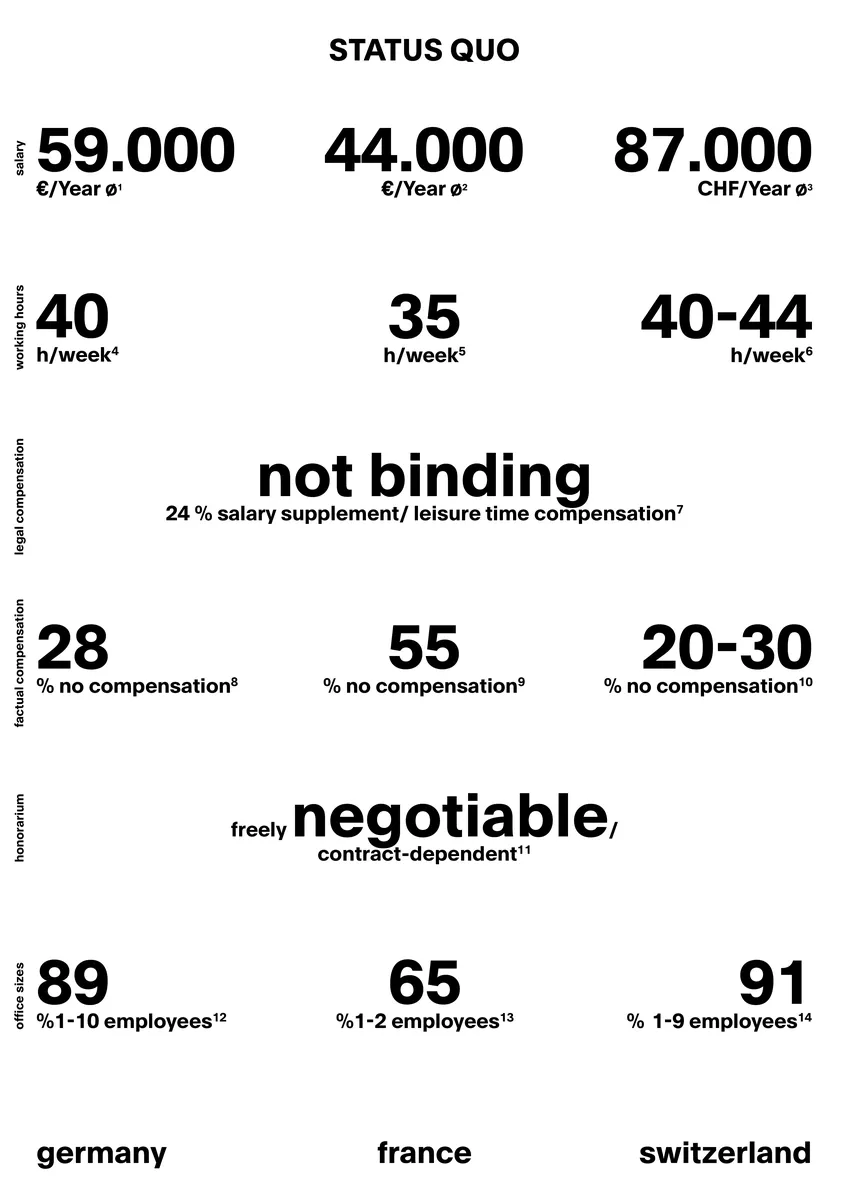
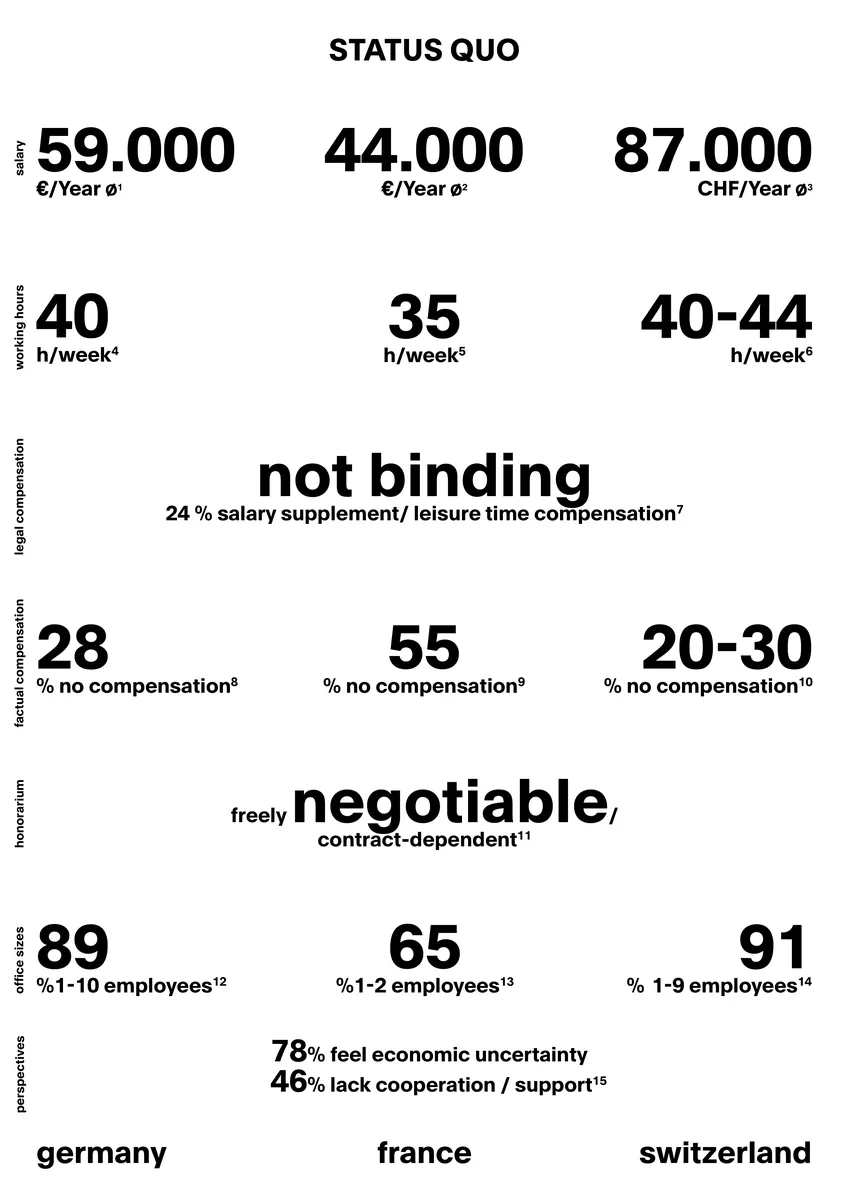
V0.0016

diff --git a/js/projects-data.js b/js/projects-data.js
@@ -710,7 +710,7 @@ window.PROJECTS_DATA = [
         "size":  null,
         "contributor":  "Laura Schieferdecker",
         "credits":  null,
-        "text":  "# 1. Status Quo\n\nArchitecture is a profession with high educational demands, considerable responsibility and a clear social impact. Salaries and working conditions do not always reflect these demands. Salary data show differences between Germany, France and Switzerland, partly reflecting different living costs and labour markets. Across all three countries, concerns about overtime, workload and adequate compensation raise a common question: why does a profession that demands so much commitment struggle to secure consistently fair working conditions?\n\nThe situation differs between countries. France has a standard 35-hour working week and a national collective agreement for architecture firms. Germany has no universal statutory overtime premium or comparable sector-wide collective agreement covering all architecture practices. In Switzerland, working conditions and collective arrangements can vary regionally. Despite these differences, unpaid or inadequately compensated overtime remains a concern. The available figures suggest that the problem is not exclusive to one national system, although the surveys are not directly comparable and some are not nationally representative.\n\nA common structural factor is the small size of architecture practices. In all three countries, the sector is dominated by small offices, where employees may have limited bargaining power and few opportunities for formal workplace representation. Competition, deadlines and tight project budgets can encourage long working hours, while employment conditions are often negotiated individually. The central issue is not simply the level of salaries, but the extent to which employees can influence the conditions under which they work.\n\n# 2. Forms of Organisation\n\nTo understand this problem, it is important to distinguish between three types of organisation.\n\n**Lobbying organisations** seek to influence political decisions, legislation and public policy. They can promote architecture’s social and economic importance, but protecting employees’ wages and working hours is not necessarily their primary objective.\n\n**Professional associations and chambers** promote professional standards, qualifications, ethics and recognition. They strengthen the status of architects and represent the profession publicly. Representing architecture as a profession does not automatically mean representing salaried architects in conflicts with employers.\n\n**Trade unions** represent employees. They negotiate wages and working conditions, provide advice and legal support, and organise workers around shared demands. Through collective bargaining, they can help establish common employment standards across a sector.\n\nCollective agreements are not organisations themselves, but instruments through which employer representatives and employee unions negotiate employment conditions. These functions can complement one another, but they are not interchangeable. Lobbying can influence policy, professional bodies can safeguard standards, and trade unions can advocate for employees’ interests. A strong professional voice cannot replace independent employee representation.\n\n# 3. France\n\nFrance provides a useful comparison because it has an established system of sectoral collective bargaining in architecture. The *Ordre des architectes*, consisting of a National Council and 17 Regional Councils, regulates the profession, maintains the register of architects and represents the profession in public and institutional discussions. It does not negotiate employees’ wages or act as a trade union.\n\nThe UNSFA and the Syndicat de l’Architecture represent architecture firms and employers. Both participate in social dialogue and collective bargaining on the employers’ side. Their role is necessary, and their economic interests may differ from those of employees, particularly regarding salary increases, working hours and overtime compensation.\n\nOn the employees’ side, organisations such as SYNATPAU participate in sectoral negotiations. The central instrument is the *Convention collective nationale des entreprises d’architecture* (IDCC 2332), which establishes a framework for employment conditions and professional classifications. Its extension in 2026 to employers within its scope strengthens the reach of the negotiated rules.\n\nCompared with Germany, France has a more clearly established sector-wide framework for negotiating employment conditions. Switzerland illustrates how collective arrangements can differ regionally. These institutional differences matter, but they do not automatically translate into better everyday working conditions. The reported levels of uncompensated overtime in France demonstrate why the existence of a collective agreement must be distinguished from its implementation and enforcement. Employees must also know their rights and feel able to assert them.\n\nFrance shows that collective bargaining can establish common rules beyond individual employment contracts. It does not prove that those rules resolve every problem. The decisive question is whether employees have sufficient representation and practical support to make formal protections effective.\n\n# 4. Limits\n\nSeveral structural problems help explain why existing organisations may not adequately improve working conditions across the three countries.\n\n**Small offices** make collective organisation difficult. Employees are dispersed across many workplaces rather than concentrated in large companies with established representation structures. **Fragmented representation** creates another obstacle: chambers, professional associations, employer organisations and trade unions have different mandates, and employees’ interests may not receive the same visibility as professional regulation or business concerns.\n\n**Limited data and public visibility** also weaken the case for reform. Without reliable and comparable information on salaries, overtime, workload and employee satisfaction, it is difficult to measure the scale of problems or evaluate whether existing agreements improve conditions. **Weak practical enforcement** can undermine formal rights. Job insecurity, workplace hierarchies and concerns about professional relationships may discourage employees from challenging unpaid overtime or excessive workloads.\n\nThese limitations suggest several possible improvements. Architecture-specific employee organisations could strengthen membership, particularly among students, interns and early-career architects. Trade unions could offer more accessible legal advice and coordinate demands across small practices. Professional chambers and associations could collect data on working conditions more systematically and give employees’ concerns greater visibility. Employer organisations could work with unions to establish transparent standards for workloads, overtime compensation and work–life balance.\n\nThe aim should not be to replace existing organisations, but to clarify their responsibilities and strengthen cooperation. Germany highlights the challenge of specialist employee representation, France demonstrates the potential of sector-wide collective bargaining, and Switzerland shows the importance of examining regional differences. Across all three countries, the underlying challenge is similar: **the organisations that represent the profession as a whole do not necessarily have the mandate or the means to protect employees’ everyday working conditions.**\n\nArchitecture needs both a strong professional voice and effective, independent employee representation. Professional quality cannot be separated from the conditions under which architects work. Without fair compensation, reasonable working hours and meaningful representation, the long-term sustainability of the profession itself is at risk.",
+        "text":  "# 1. Status Quo\n\nArchitecture is a profession with high educational demands, considerable responsibility and a clear social impact. Yet, salaries and working conditions do not always reflect these demands. Salary data show differences between Germany, France and Switzerland, partly reflecting different living costs and labour markets. Across all three countries, concerns about overtime, workload and adequate compensation raise a common question: why does a profession that demands so much commitment struggle to secure consistently fair working conditions?\n\nThe situation differs between countries. France has a standard 35-hour working week and a national collective agreement for architecture firms. Germany has a 40-hour working week and recommendations for overtime compensation but no binding country-wide agreement. In Switzerland, working conditions and collective arrangements can vary regionally. Despite these differences, unpaid or inadequately compensated overtime remains a concern.\n\nA common structural factor is the small size of architecture practices. In all three countries, the sector is dominated by small offices, where employees may have limited bargaining power and the firms themselves don\u0027t have as much financial stability and bargaining power towards their honorary within the industry as well. Competition, deadlines and tight project budgets can encourage long working hours, while employment conditions are often negotiated individually. In France 82% of architects report high work intensity and pressure, 78% feel economic instability and 46% report a lack of cooperation and support. The central issue is not simply the level of salaries, but the extent to which employees and architecture firms can influence the conditions under which they work.\n\n# 2. Forms of Organisation\n\nTo understand this problem, it is important to distinguish between three types of organisation.\n\n**Lobbying organisations** seek to influence political decisions, legislation and public policy. They can promote architecture’s social and economic importance, but protecting employees’ wages and working hours is not necessarily their primary objective.\n\n**Professional associations and chambers** promote professional standards, qualifications, ethics and recognition. They strengthen the status of architects and represent the profession publicly. Their focus lies on representing architecture as a profession and not necessarily representing salaried architects in conflicts with employers.\n\n**Trade unions** represent employees. They negotiate wages and working conditions, provide advice and legal support, and organise workers around shared demands. Through collective bargaining, they can help establish common employment standards across a sector.\n\nCollective agreements are not organisations themselves, but instruments through which employer representatives and employee unions negotiate employment conditions. These functions can complement one another, but they are not interchangeable. Lobbying can influence policy, professional bodies can safeguard standards, and trade unions can advocate for employees’ interests. A strong professional voice cannot replace independent employee representation.\n\n# 3. France\n\nFrance has an established system of sectoral collective bargaining in architecture. The *Ordre des architectes*, consisting of a National Council and 17 Regional Councils, regulates the profession, maintains the register of architects and represents the profession in public and institutional discussions. Still, it does not negotiate employees’ wages or act as a trade union.\n\nThe *UNSFA* and the *Syndicat de l’Architecture* represent architecture firms and employers. Both participate in social dialogue and collective bargaining on the employers’ side. Their role is necessary, and their economic interests may differ from those of employees, particularly regarding salary increases, working hours and overtime compensation.\n\nOn the employees’ side, organisations such as *SYNATPAU* participate in sectoral negotiations. The central instrument is the *Convention collective nationale des entreprises d’architecture* (IDCC 2332), which establishes a framework for employment conditions and professional classifications. Its extension in 2026 to employers within its scope strengthens the reach of the negotiated rules.\n\nCompared with Germany, France has a more clearly established sector-wide framework for negotiating employment conditions. Switzerland illustrates how collective arrangements can differ regionally. These institutional differences matter, but they do not automatically translate into better everyday working conditions. The reported levels of uncompensated overtime in France demonstrate why the existence of a collective agreement must be distinguished from its implementation and enforcement. Employees must also know their rights and feel able to assert them.\n\nFrance shows that collective bargaining can establish common rules beyond individual employment contracts. It does not prove that those rules resolve every problem. The decisive question is whether employees have sufficient representation and practical support to make formal protections effective.\n\n# 4. Limits\n\nSeveral structural problems help explain why existing organisations may not adequately improve working conditions across the three countries.\n\n**Small offices** make collective organisation difficult. Employees are dispersed across many workplaces rather than concentrated in large companies with established representation structures and the office itself also can\u0027t generate a big bargaining power within the industry. **Fragmented representation** creates another obstacle: chambers, professional associations, employer organisations and trade unions have different mandates, and employees’ interests may not receive the same visibility as professional regulation or business concerns.\n\n**Limited data and public visibility** also weaken the case for reform. Without reliable and comparable information on salaries, overtime, workload and employee satisfaction, it is difficult to measure the scale of problems or evaluate whether existing agreements improve conditions. **Weak practical enforcement** can undermine formal rights. Job insecurity, workplace hierarchies and concerns about professional relationships may discourage employees from challenging unpaid overtime or excessive workloads.\n\nThese limitations suggest several possible improvements. Architecture-specific employee organisations could strengthen membership, particularly among students, interns and early-career architects. Trade unions could offer more accessible legal advice and coordinate demands across small practices. Professional chambers and associations could collect data on working conditions more systematically and give employees’ concerns greater visibility. Employer organisations could work with unions to establish transparent standards for workloads, overtime compensation and work–life balance.\n\nThe aim should not be to replace existing organisations, but to clarify their responsibilities and strengthen cooperation. Germany highlights the challenge of specialist employee representation, France demonstrates the potential of sector-wide collective bargaining, and Switzerland shows the importance of examining regional differences. Across all three countries, the underlying challenge is similar: **the organisations that represent the profession as a whole do not necessarily have the mandate or the means to protect employees’ everyday working conditions.**\n\nArchitecture needs both a strong professional voice and effective, independent employee representation. Professional quality cannot be separated from the conditions under which architects work. Without fair compensation, reasonable working hours and meaningful representation, the long-term sustainability of the profession itself is at risk.",
         "heroImage":  "projects/architect_union/architect-union_hero.webp",
         "heroVideo":  null,
         "background":  null,
